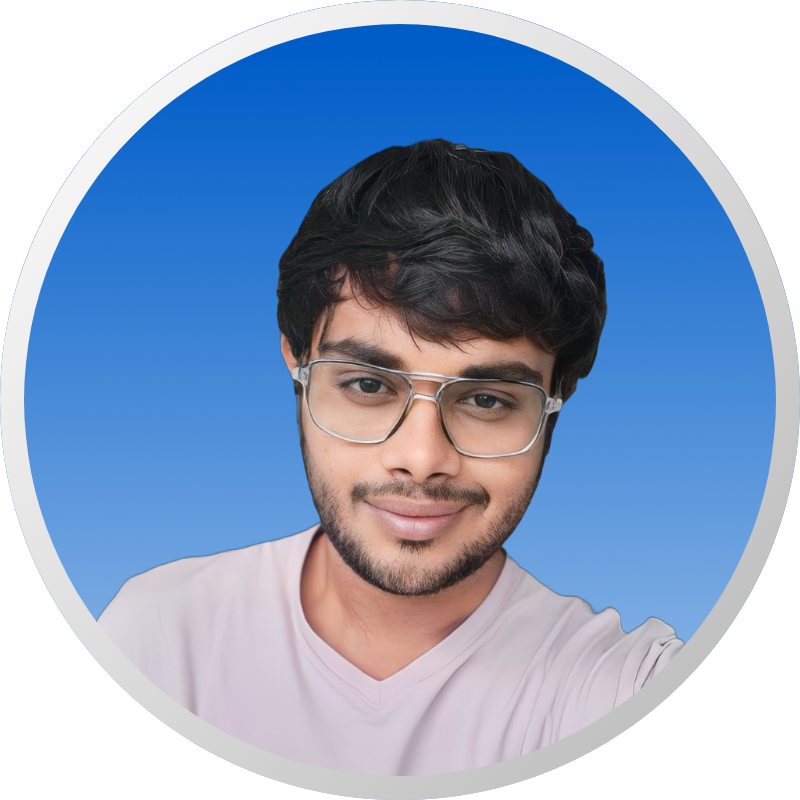
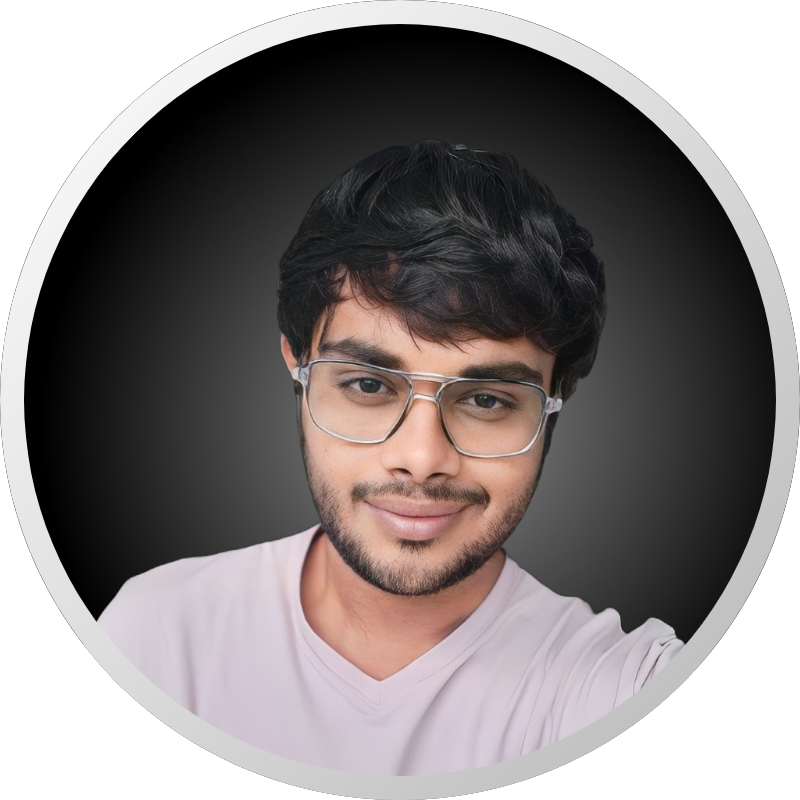
updated

diff --git a/index.html b/index.html
@@ -111,7 +111,7 @@ Yash Dave, Yash Dave official, Yash Dave website, Yash Dave portfolio, Yash Dave
 
   <nav class="navbar navbar-b navbar-trans navbar-expand-md fixed-top" id="mainNav">
     <div class="container">
-      <a class="navbar-brand js-scroll" href="#page-top">Yash R Dave</a>
+      <a class="navbar-brand js-scroll" href="#page-top">Yash Dave</a>
       <button class="navbar-toggler collapsed" type="button" data-toggle="collapse" data-target="#navbarDefault"
         aria-controls="navbarDefault" aria-expanded="false" aria-label="Toggle navigation">
         <span></span>
@@ -240,10 +240,10 @@ Yash Dave, Yash Dave official, Yash Dave website, Yash Dave portfolio, Yash Dave
         <div class="col-sm-12">
           <div class="title-box text-center">
             <h3 class="title-a">
-              Services
+              My Expertise
             </h3>
             <p class="subtitle-a">
-              What I can Offer???
+             
             </p>
             <div class="line-mf"></div>
           </div>
@@ -489,13 +489,12 @@ Yash Dave, Yash Dave official, Yash Dave website, Yash Dave portfolio, Yash Dave
             <div class="credits">
               <div class="more-info">
                 <ul class="list-ico">
-                  <li><span class="ion-email"></span> yashdave164@gmail.com</li>
+                  <li><span class="ion-email"></span><a href="mailto:yashdave164@gmail.com">yashdave164@gmail.com</a> </li>
                 </ul>
               </div>
               <div class="socials">
                 <ul>
                   <li><a href="https://github.com/Yash-Dave"><span class="ico-circle"><i class="ion-social-github"></i></span></a></li>
-                  <li><a href="https://www.linkedin.com/in/yashrdave/"><span class="ico-circle"><i class="ion-social-instagram"></i></span></a></li>
                   <li><a href="https://www.linkedin.com/in/yashrdave/"><span class="ico-circle"><i class="ion-social-linkedin"></i></span></a></li>
                 </ul>
             </div>

diff --git a/css/style.css b/css/style.css
@@ -423,7 +423,7 @@ a:hover {
   bottom: 0;
   left: 0;
   height: 2px;
-  transition: all 500ms ease;
+  transition: all 1000ms ease;
 }
 
 .navbar-b.navbar-trans .nav-link:hover,
